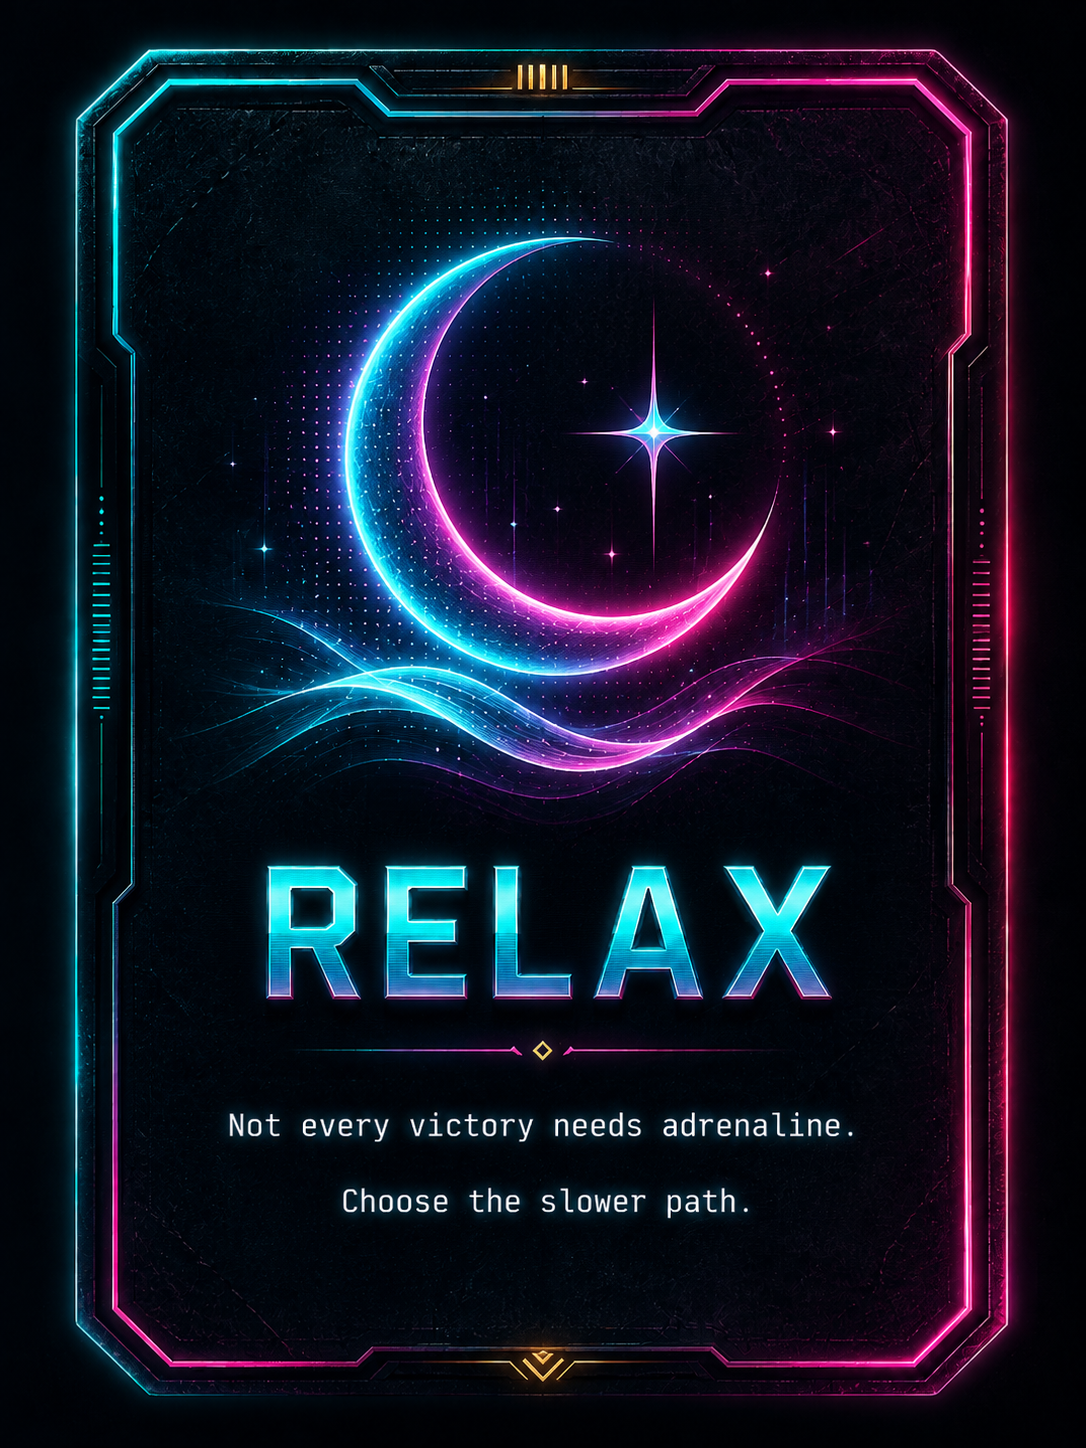
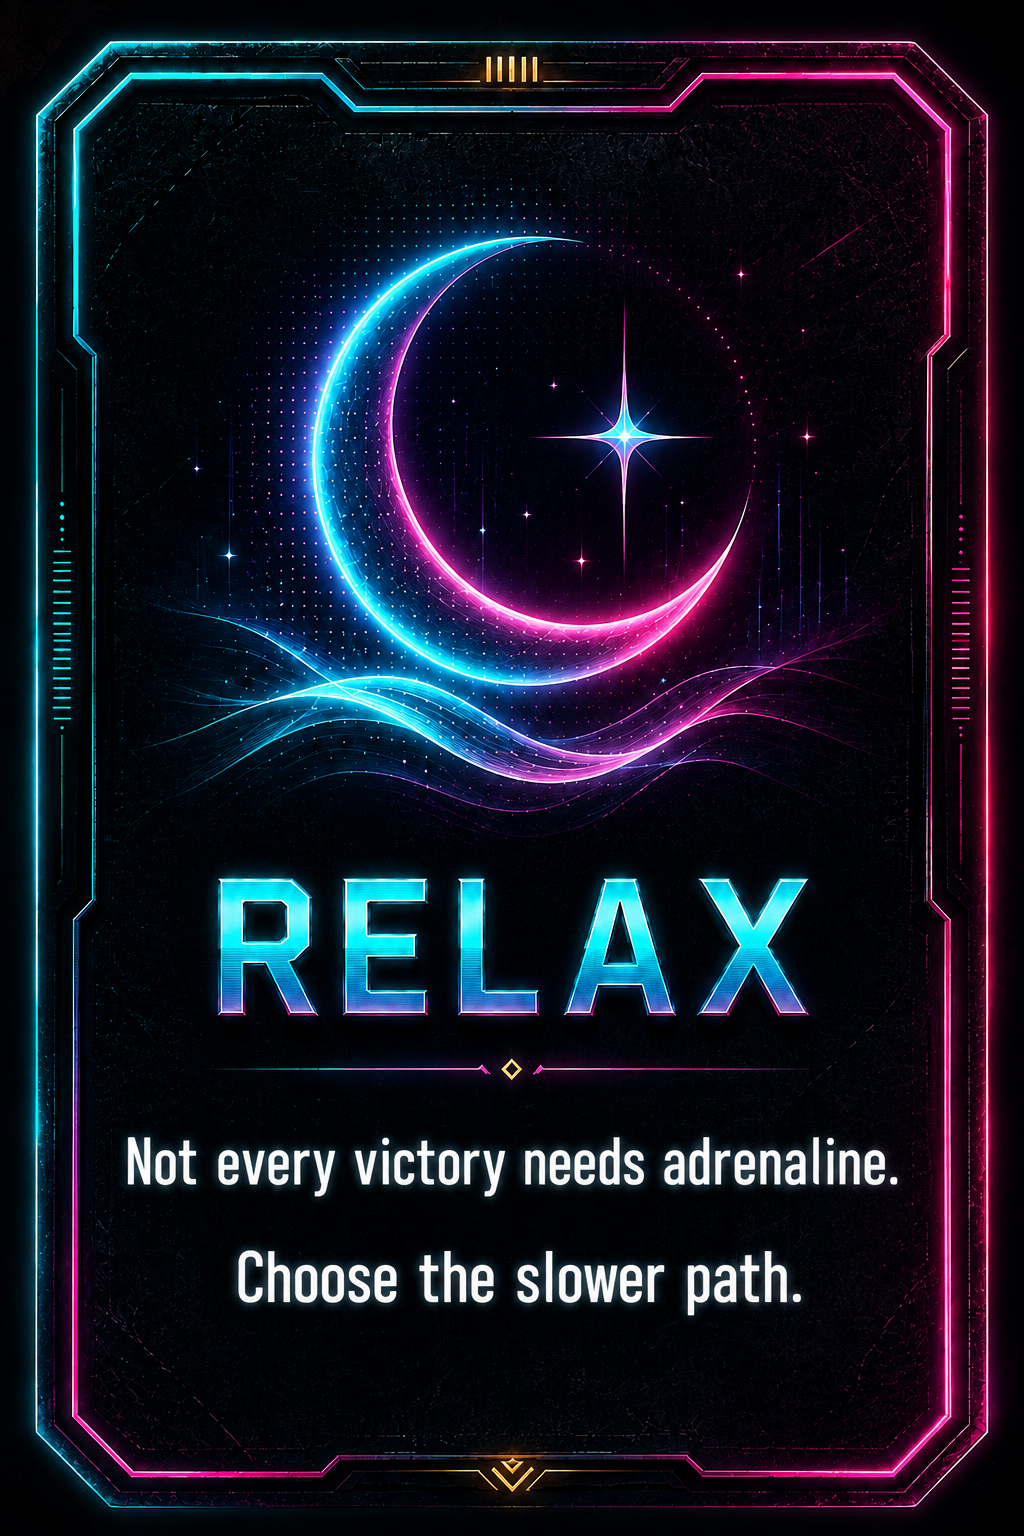
Refine final choice layout and cards

diff --git a/final-flow.css b/final-flow.css
@@ -1,4 +1,4 @@
-.final-flow-screen{position:fixed;inset:0;z-index:140;display:grid;place-content:center;justify-items:center;gap:10px;padding:48px 20px 32px;background:#070b1b;color:#f2d9e9;text-align:center}.final-flow-screen h1{margin:0;color:#ffd23f;font:700 clamp(32px,5vw,60px)/1 sans-serif;letter-spacing:.08em}.final-flow-screen p{margin:0;font:500 clamp(18px,2.5vw,28px)/1.3 sans-serif}.final-flow-screen button{min-height:50px;padding:12px 28px;border:1px solid #00e5ff;background:#08141d;color:#fff;cursor:pointer;font:700 14px/1 sans-serif;letter-spacing:.1em}.final-flow-screen button:focus-visible,.final-flow-screen button:hover{box-shadow:0 0 16px rgba(0,229,255,.4)}#choiceReplay{border-color:#ff2e88}.path-cards{display:grid;grid-template-columns:repeat(3,minmax(180px,1fr));gap:16px;width:min(960px,92vw)}.path-card{display:flex;flex-direction:column;gap:14px;align-items:center;justify-content:center;min-height:155px!important}.path-card[aria-pressed="true"]{border-color:#ffd23f;box-shadow:0 0 18px rgba(255,210,63,.4)}.path-card span{font-size:13px;font-weight:400;line-height:1.45}.your-pick{display:grid;gap:4px;margin-top:2px}.your-pick strong{color:#00e5ff;letter-spacing:.14em}.your-pick b{color:#ffd23f;font-size:22px}.your-pick span{font-size:14px}@media(max-width:700px){.final-flow-screen{padding:24px 16px calc(24px + env(safe-area-inset-bottom))}.path-cards{grid-template-columns:1fr;width:min(420px,92vw)}.path-card{min-height:110px!important}.final-flow-screen h1{font-size:clamp(30px,9vw,44px)}}
+.final-flow-screen{position:fixed;inset:0;z-index:140;display:grid;place-content:center;justify-items:center;gap:7px;padding:48px 20px 32px;background:#070b1b;color:#f2d9e9;text-align:center}.final-flow-screen h1{margin:0;color:#ffd23f;font:700 clamp(22px,3.3vw,40px)/1 sans-serif;letter-spacing:.08em}.final-flow-screen p{margin:0;font:500 clamp(13px,1.7vw,20px)/1.3 sans-serif}.final-flow-screen button{min-height:50px;padding:12px 28px;border:1px solid #00e5ff;background:#08141d;color:#fff;cursor:pointer;font:700 14px/1 sans-serif;letter-spacing:.1em}.final-flow-screen button:focus-visible,.final-flow-screen button:hover{box-shadow:0 0 16px rgba(0,229,255,.4)}#choiceReplay{border-color:#ff2e88}.path-cards{display:grid;grid-template-columns:repeat(3,minmax(180px,1fr));gap:16px;width:min(960px,92vw)}.path-card{display:flex;flex-direction:column;gap:14px;align-items:center;justify-content:center;min-height:155px!important}.path-card[aria-pressed="true"]{border-color:#ffd23f;box-shadow:0 0 18px rgba(255,210,63,.4)}.path-card span{font-size:13px;font-weight:400;line-height:1.45}.your-pick{display:grid;gap:4px;margin-top:2px}.your-pick strong{color:#00e5ff;letter-spacing:.14em}.your-pick b{color:#ffd23f;font-size:22px}.your-pick span{font-size:14px}@media(max-width:700px){.final-flow-screen{padding:24px 16px calc(24px + env(safe-area-inset-bottom))}.path-cards{grid-template-columns:1fr;width:min(420px,92vw)}.path-card{min-height:110px!important}.final-flow-screen h1{font-size:clamp(22px,6vw,30px)}}
 
 .return-travel-screen:has(#returnVideoPanel:not([hidden])){pointer-events:none}.return-travel-screen:has(#returnVideoPanel:not([hidden])) #returnVideoPanel{pointer-events:auto}
 
